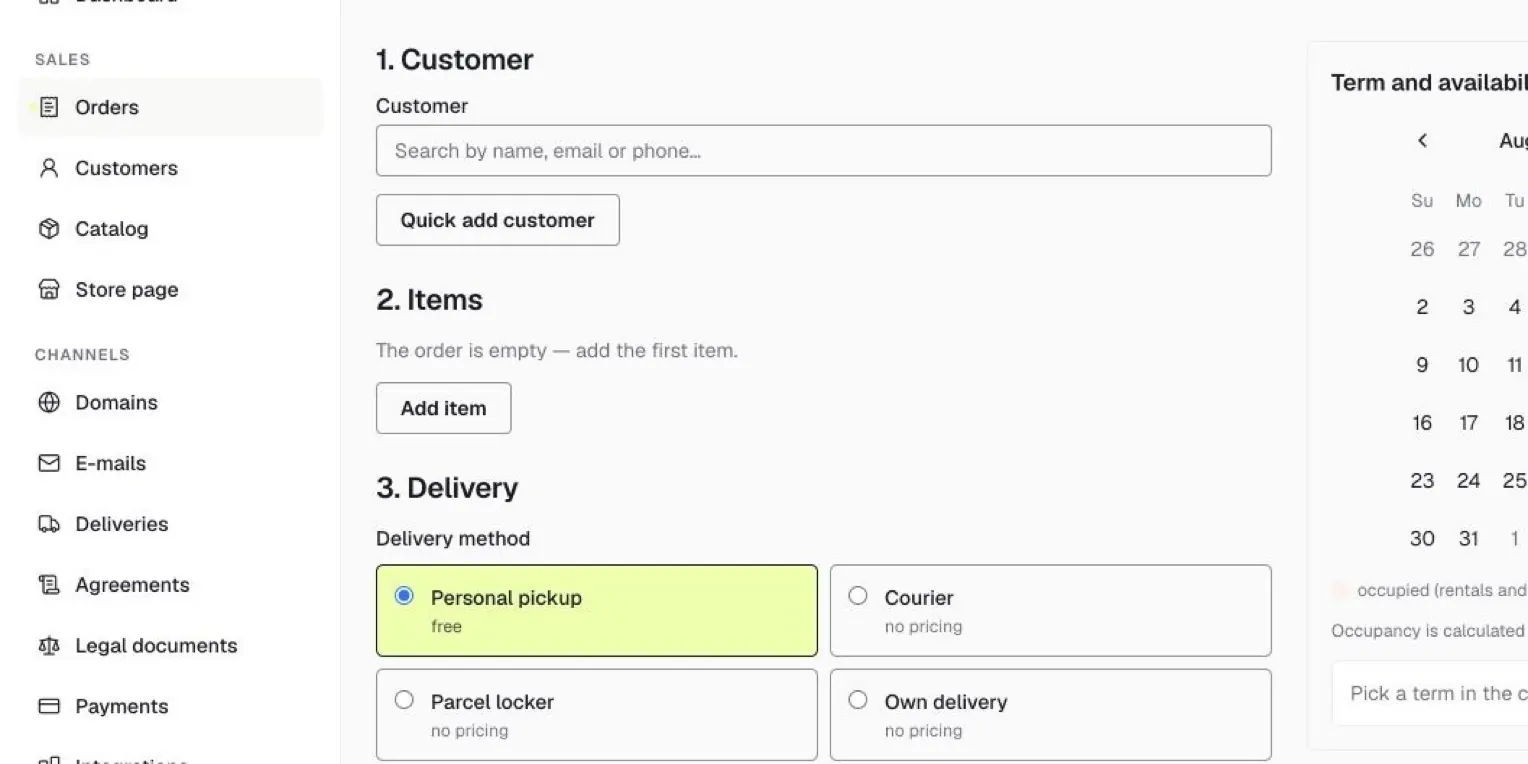
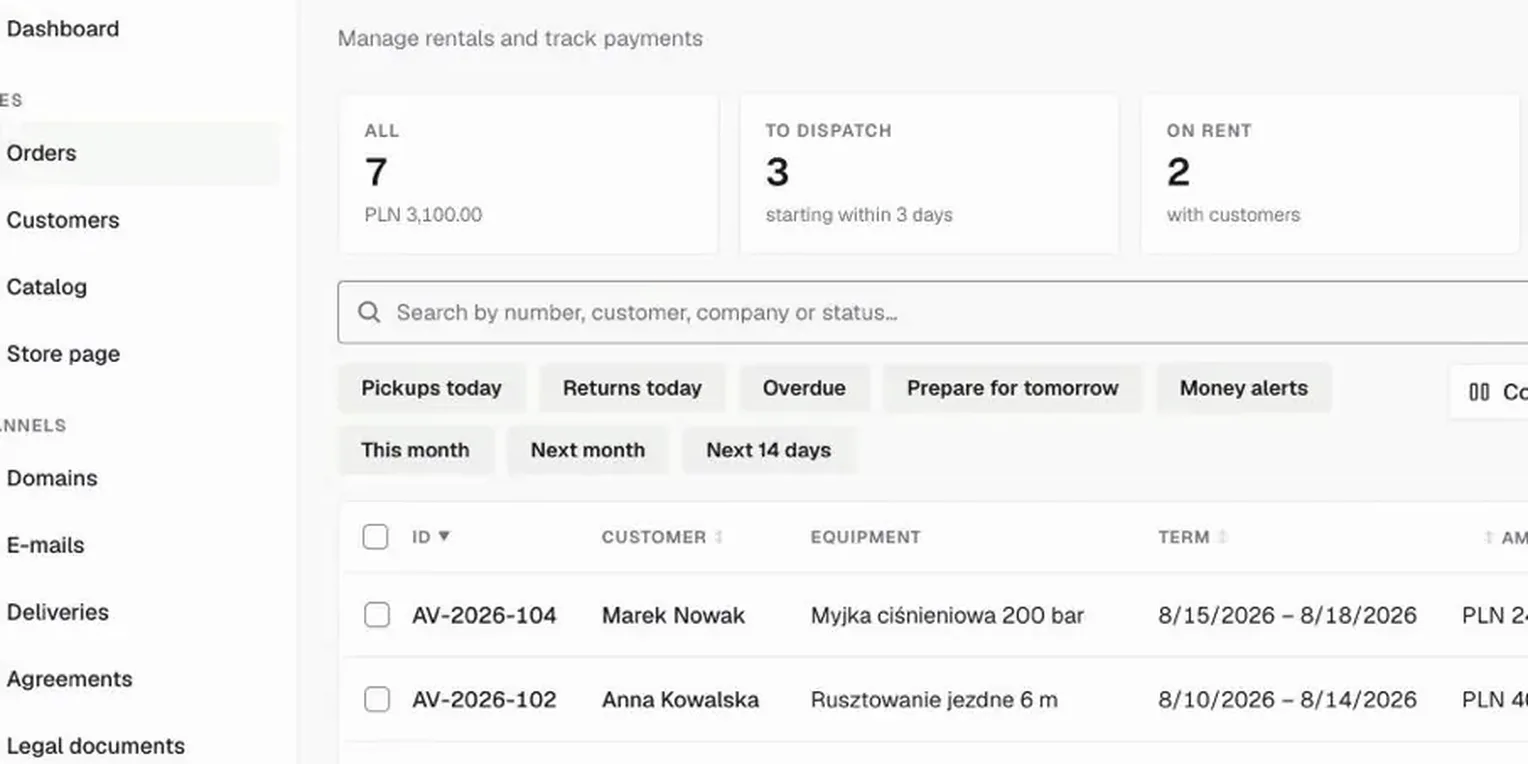
fix: wzmocnij dowody produktu na LP

diff --git a/apps/storefront/test/marketing-screens-contract.test.ts b/apps/storefront/test/marketing-screens-contract.test.ts
@@ -14,15 +14,15 @@ import pl from "../messages/pl.json";
 const root = path.resolve(__dirname, "..");
 
 const UJECIA = {
-  kalendarz: { ratio: 2 },
-  kaucje: { ratio: 2 },
-  kurier: { ratio: 2 },
-  kreator: { ratio: 2 },
-  koszyk: { ratio: 2 },
-  pulpit: { ratio: 1.5 },
-  rejestracja: { ratio: 4 / 3 },
-  katalog: { ratio: 4 / 3 },
-  zamowienia: { ratio: 4 / 3 },
+  kalendarz: { width: 1528, height: 764 },
+  kaucje: { width: 1528, height: 764 },
+  kurier: { width: 1528, height: 764 },
+  kreator: { width: 1528, height: 764 },
+  koszyk: { width: 1528, height: 764 },
+  pulpit: { width: 1312, height: 874 },
+  rejestracja: { width: 906, height: 679 },
+  katalog: { width: 906, height: 679 },
+  zamowienia: { width: 906, height: 679 },
 } as const;
 
 const STARE_SUMY = new Set([
@@ -90,9 +90,8 @@ describe("aktualne screeny produktu na LP", () => {
         expect(STARE_SUMY.has(suma), `${locale}/${nazwa} nadal jest starym screenem`).toBe(false);
 
         const { width, height } = wymiaryWebp(buffer);
-        expect(width, `${locale}/${nazwa}: szerokość`).toBeGreaterThanOrEqual(900);
-        expect(height, `${locale}/${nazwa}: wysokość`).toBeGreaterThanOrEqual(600);
-        expect(width / height, `${locale}/${nazwa}: proporcja`).toBeCloseTo(kontrakt.ratio, 1);
+        expect(width, `${locale}/${nazwa}: szerokość`).toBe(kontrakt.width);
+        expect(height, `${locale}/${nazwa}: wysokość`).toBe(kontrakt.height);
       });
     }
   }
@@ -104,5 +103,22 @@ describe("aktualne screeny produktu na LP", () => {
     expect(html.match(/class="tab-accordion-image"/g)).toHaveLength(5);
     expect(html.match(/class="momonetum-image zrzut-ramka-4-3"/g)).toHaveLength(3);
     expect(html.match(/class="cta-block-image zrzut-ramka-3-2"/g)).toHaveLength(1);
+  });
+
+  it("pięć zakładek mapuje grafiki dokładnie na etapy procesu", () => {
+    const html = readFileSync(path.join(root, "marketing/home.html"), "utf8");
+    const mapa = ["kreator", "koszyk", "kalendarz", "kurier", "kaucje"];
+
+    for (const [index, nazwa] of mapa.entries()) {
+      const tab = `Tab ${index + 1}`;
+      const start = html.indexOf(`data-w-tab="${tab}"`, html.indexOf('class="tabs-content-features'));
+      const end = html.indexOf(`data-w-tab="Tab ${index + 2}"`, start);
+      const fragment = html.slice(start, end === -1 ? html.indexOf("</div>\n        </div>", start) : end);
+
+      expect(start, `${tab}: brak panelu`).toBeGreaterThan(-1);
+      expect(fragment).toContain(
+        `<img src="{{shots.${nazwa}}}" alt="{{shots.${nazwa}Alt}}" loading="lazy" width="1528" height="764" class="zrzut-ui zrzut-ui-2-1">`,
+      );
+    }
   });
 });

diff --git a/apps/storefront/test/marketing-story-contract.test.ts b/apps/storefront/test/marketing-story-contract.test.ts
@@ -62,9 +62,9 @@ describe("LP opowiada jeden proces wynajmu", () => {
     expect(en.marketing.cta.title).toMatch(/today|day/i);
 
     for (const [locale, marketing] of locales) {
-      const copy = `${marketing.cta.title} ${marketing.cta.body}`;
+      const copy = JSON.stringify(marketing);
       expect(copy, locale).not.toMatch(/Złoci klienci|Golden customers/i);
-      expect(copy, locale).not.toMatch(/Osobna lista .?Wymaga uwagi|A separate .?Needs attention/i);
+      expect(copy, locale).not.toMatch(/Wymaga uwagi|Needs attention/i);
     }
   });
 

diff --git a/docs/superpowers/specs/2026-08-14-lp-narracja-i-aktualne-screeny-design.md b/docs/superpowers/specs/2026-08-14-lp-narracja-i-aktualne-screeny-design.md
@@ -55,7 +55,7 @@ Zachowujemy obecne miejsca i proporcje kontenerów. Podmieniamy obrazy na ujęci
 
 1. **Przygotowanie oferty:** aktualny kreator z płótnem i narzędziami publikacji.
 2. **Rezerwacja klienta:** aktualny sklep lub koszyk z terminem i podsumowaniem.
-3. **Dzień / dostępność:** aktualny widok tworzenia zamówienia z terminem i dostępnymi egzemplarzami.
+3. **Dzień / dostępność:** aktualna lista zamówień z filtrami dnia, sprzętem i terminami najmu.
 4. **Wydanie lub dostawa:** aktualny ekran przesyłki powiązanej z zamówieniem.
 5. **Zwrot i kaucja:** aktualny szczegół rozliczenia kaucji z saldem i historią zdarzeń.
 
